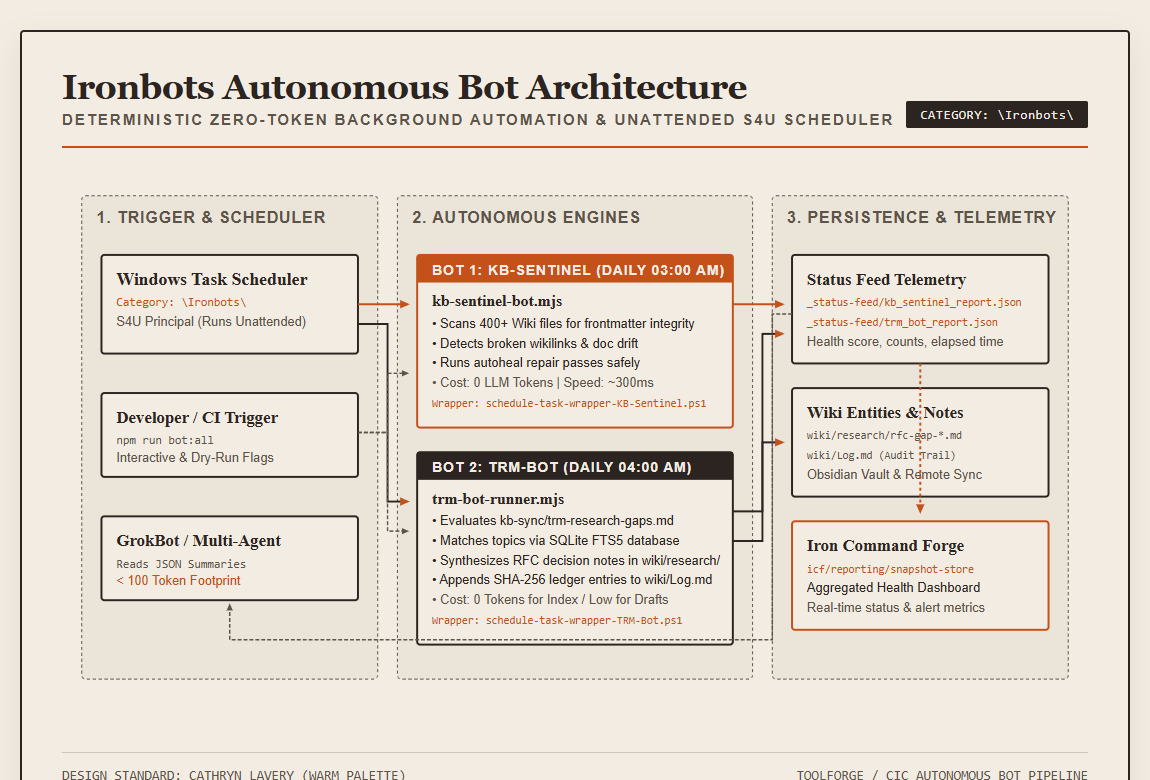
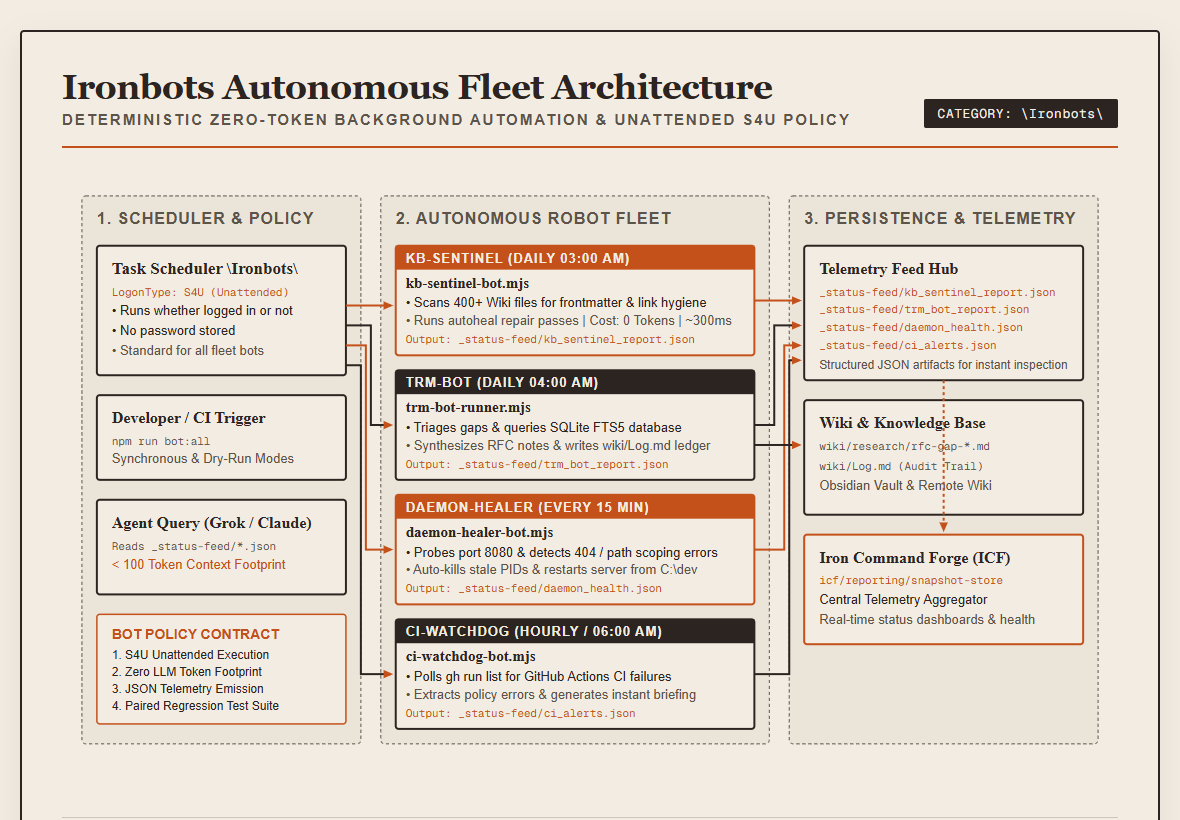
docs: update Ironbots architecture documentation and diagram with 4-bot fleet and policy

diff --git a/docs/ironbots-architecture-diagram.html b/docs/ironbots-architecture-diagram.html
@@ -3,7 +3,7 @@
 <head>
   <meta charset="UTF-8">
   <meta name="viewport" content="width=device-width, initial-scale=1.0">
-  <title>Ironbots Autonomous Bot Architecture</title>
+  <title>Ironbots Autonomous Bot Architecture & Policy</title>
   <link rel="preconnect" href="https://fonts.googleapis.com">
   <link rel="preconnect" href="https://fonts.gstatic.com" crossorigin>
   <link href="https://fonts.googleapis.com/css2?family=Playfair+Display:ital,wght@0,600;0,800;1,400&family=Barlow+Condensed:wght@400;600;700&family=Geist+Mono:wght@400;600&display=swap" rel="stylesheet">
@@ -28,7 +28,7 @@
       border: 2px solid #2c2420;
       border-radius: 4px;
       padding: 36px 40px;
-      max-width: 1120px;
+      max-width: 1140px;
       width: 100%;
       box-shadow: 0 12px 32px rgba(44, 36, 32, 0.08);
     }
@@ -87,13 +87,13 @@
 <div class="diagram-container">
   <header>
     <div class="title-group">
-      <h1>Ironbots Autonomous Bot Architecture</h1>
-      <p>Deterministic Zero-Token Background Automation &amp; Unattended S4U Scheduler</p>
+      <h1>Ironbots Autonomous Fleet Architecture</h1>
+      <p>Deterministic Zero-Token Background Automation &amp; Unattended S4U Policy</p>
     </div>
     <div class="badge">CATEGORY: \Ironbots\</div>
   </header>
 
-  <svg viewBox="0 0 1040 560" xmlns="http://www.w3.org/2000/svg">
+  <svg viewBox="0 0 1060 620" xmlns="http://www.w3.org/2000/svg">
     <defs>
       <marker id="arrow" viewBox="0 0 10 10" refX="6" refY="5" markerWidth="6" markerHeight="6" orient="auto-start-reverse">
         <path d="M 0 1.5 L 8 5 L 0 8.5 z" fill="#c4501a" />
@@ -104,104 +104,118 @@
     </defs>
 
     <!-- Background Grid Bands -->
-    <rect x="20" y="20" width="300" height="490" rx="4" fill="#ebe4d8" stroke="#5c5349" stroke-dasharray="3 3" />
-    <text x="35" y="48" font-family="'Barlow Condensed', sans-serif" font-weight="700" font-size="16" fill="#5c5349" letter-spacing="1">1. TRIGGER &amp; SCHEDULER</text>
+    <rect x="20" y="20" width="280" height="550" rx="4" fill="#ebe4d8" stroke="#5c5349" stroke-dasharray="3 3" />
+    <text x="35" y="48" font-family="'Barlow Condensed', sans-serif" font-weight="700" font-size="16" fill="#5c5349" letter-spacing="1">1. SCHEDULER &amp; POLICY</text>
 
-    <rect x="340" y="20" width="360" height="490" rx="4" fill="#ebe4d8" stroke="#5c5349" stroke-dasharray="3 3" />
-    <text x="355" y="48" font-family="'Barlow Condensed', sans-serif" font-weight="700" font-size="16" fill="#5c5349" letter-spacing="1">2. AUTONOMOUS ENGINES</text>
+    <rect x="320" y="20" width="390" height="550" rx="4" fill="#ebe4d8" stroke="#5c5349" stroke-dasharray="3 3" />
+    <text x="335" y="48" font-family="'Barlow Condensed', sans-serif" font-weight="700" font-size="16" fill="#5c5349" letter-spacing="1">2. AUTONOMOUS ROBOT FLEET</text>
 
-    <rect x="720" y="20" width="300" height="490" rx="4" fill="#ebe4d8" stroke="#5c5349" stroke-dasharray="3 3" />
-    <text x="735" y="48" font-family="'Barlow Condensed', sans-serif" font-weight="700" font-size="16" fill="#5c5349" letter-spacing="1">3. PERSISTENCE &amp; TELEMETRY</text>
+    <rect x="730" y="20" width="310" height="550" rx="4" fill="#ebe4d8" stroke="#5c5349" stroke-dasharray="3 3" />
+    <text x="745" y="48" font-family="'Barlow Condensed', sans-serif" font-weight="700" font-size="16" fill="#5c5349" letter-spacing="1">3. PERSISTENCE &amp; TELEMETRY</text>
 
     <!-- Node 1: Task Scheduler \Ironbots\ -->
-    <rect x="40" y="80" width="260" height="100" rx="3" fill="#f2ece2" stroke="#2c2420" stroke-width="2" />
-    <text x="55" y="110" font-family="'Playfair Display', serif" font-weight="700" font-size="18" fill="#2c2420">Windows Task Scheduler</text>
-    <text x="55" y="132" font-family="'Geist Mono', monospace" font-size="12" fill="#c4501a">Category: \Ironbots\</text>
-    <text x="55" y="152" font-family="'Barlow Condensed', sans-serif" font-size="13" fill="#5c5349">S4U Principal (Runs Unattended)</text>
+    <rect x="35" y="70" width="250" height="130" rx="3" fill="#f2ece2" stroke="#2c2420" stroke-width="2" />
+    <text x="50" y="98" font-family="'Playfair Display', serif" font-weight="700" font-size="17" fill="#2c2420">Task Scheduler \Ironbots\</text>
+    <text x="50" y="120" font-family="'Geist Mono', monospace" font-size="11" fill="#c4501a">LogonType: S4U (Unattended)</text>
+    <text x="50" y="140" font-family="'Barlow Condensed', sans-serif" font-size="13" fill="#2c2420">• Runs whether logged in or not</text>
+    <text x="50" y="160" font-family="'Barlow Condensed', sans-serif" font-size="13" fill="#2c2420">• No password stored</text>
+    <text x="50" y="180" font-family="'Barlow Condensed', sans-serif" font-size="13" fill="#5c5349">• Standard for all fleet bots</text>
 
     <!-- Node 2: CLI / On-Demand Trigger -->
-    <rect x="40" y="220" width="260" height="85" rx="3" fill="#f2ece2" stroke="#2c2420" stroke-width="2" />
-    <text x="55" y="250" font-family="'Playfair Display', serif" font-weight="700" font-size="17" fill="#2c2420">Developer / CI Trigger</text>
-    <text x="55" y="272" font-family="'Geist Mono', monospace" font-size="12" fill="#5c5349">npm run bot:all</text>
-    <text x="55" y="290" font-family="'Barlow Condensed', sans-serif" font-size="13" fill="#5c5349">Interactive &amp; Dry-Run Flags</text>
+    <rect x="35" y="220" width="250" height="85" rx="3" fill="#f2ece2" stroke="#2c2420" stroke-width="2" />
+    <text x="50" y="248" font-family="'Playfair Display', serif" font-weight="700" font-size="16" fill="#2c2420">Developer / CI Trigger</text>
+    <text x="50" y="270" font-family="'Geist Mono', monospace" font-size="11" fill="#5c5349">npm run bot:all</text>
+    <text x="50" y="288" font-family="'Barlow Condensed', sans-serif" font-size="13" fill="#5c5349">Synchronous &amp; Dry-Run Modes</text>
 
     <!-- Node 3: Low-Token Agent Query -->
-    <rect x="40" y="345" width="260" height="85" rx="3" fill="#f2ece2" stroke="#2c2420" stroke-width="2" />
-    <text x="55" y="375" font-family="'Playfair Display', serif" font-weight="700" font-size="17" fill="#2c2420">GrokBot / Multi-Agent</text>
-    <text x="55" y="397" font-family="'Geist Mono', monospace" font-size="12" fill="#5c5349">Reads JSON Summaries</text>
-    <text x="55" y="415" font-family="'Barlow Condensed', sans-serif" font-size="13" fill="#c4501a">&lt; 100 Token Footprint</text>
+    <rect x="35" y="325" width="250" height="95" rx="3" fill="#f2ece2" stroke="#2c2420" stroke-width="2" />
+    <text x="50" y="353" font-family="'Playfair Display', serif" font-weight="700" font-size="16" fill="#2c2420">Agent Query (Grok / Claude)</text>
+    <text x="50" y="375" font-family="'Geist Mono', monospace" font-size="11" fill="#5c5349">Reads _status-feed/*.json</text>
+    <text x="50" y="395" font-family="'Barlow Condensed', sans-serif" font-size="13" fill="#c4501a">&lt; 100 Token Context Footprint</text>
 
-    <!-- Node 4: KB Sentinel Bot -->
-    <rect x="360" y="80" width="320" height="175" rx="3" fill="#f2ece2" stroke="#c4501a" stroke-width="2" />
-    <rect x="360" y="80" width="320" height="28" fill="#c4501a" />
-    <text x="375" y="100" font-family="'Barlow Condensed', sans-serif" font-weight="700" font-size="14" fill="#f2ece2" letter-spacing="1">BOT 1: KB-SENTINEL (DAILY 03:00 AM)</text>
-    <text x="375" y="132" font-family="'Playfair Display', serif" font-weight="700" font-size="16" fill="#2c2420">kb-sentinel-bot.mjs</text>
-    <text x="375" y="154" font-family="'Barlow Condensed', sans-serif" font-size="13" fill="#2c2420">• Scans 400+ Wiki files for frontmatter integrity</text>
-    <text x="375" y="174" font-family="'Barlow Condensed', sans-serif" font-size="13" fill="#2c2420">• Detects broken wikilinks &amp; doc drift</text>
-    <text x="375" y="194" font-family="'Barlow Condensed', sans-serif" font-size="13" fill="#2c2420">• Runs autoheal repair passes safely</text>
-    <text x="375" y="214" font-family="'Barlow Condensed', sans-serif" font-size="13" fill="#5c5349">• Cost: 0 LLM Tokens | Speed: ~300ms</text>
-    <text x="375" y="234" font-family="'Geist Mono', monospace" font-size="11" fill="#c4501a">Wrapper: schedule-task-wrapper-KB-Sentinel.ps1</text>
+    <!-- Node 4: Policy Contract Box -->
+    <rect x="35" y="440" width="250" height="110" rx="3" fill="#f2ece2" stroke="#c4501a" stroke-width="1.5" />
+    <text x="50" y="465" font-family="'Barlow Condensed', sans-serif" font-weight="700" font-size="14" fill="#c4501a">BOT POLICY CONTRACT</text>
+    <text x="50" y="485" font-family="'Barlow Condensed', sans-serif" font-size="12" fill="#2c2420">1. S4U Unattended Execution</text>
+    <text x="50" y="502" font-family="'Barlow Condensed', sans-serif" font-size="12" fill="#2c2420">2. Zero LLM Token Footprint</text>
+    <text x="50" y="519" font-family="'Barlow Condensed', sans-serif" font-size="12" fill="#2c2420">3. JSON Telemetry Emission</text>
+    <text x="50" y="536" font-family="'Barlow Condensed', sans-serif" font-size="12" fill="#2c2420">4. Paired Regression Test Suite</text>
 
-    <!-- Node 5: TRM Bot -->
-    <rect x="360" y="280" width="320" height="195" rx="3" fill="#f2ece2" stroke="#2c2420" stroke-width="2" />
-    <rect x="360" y="280" width="320" height="28" fill="#2c2420" />
-    <text x="375" y="300" font-family="'Barlow Condensed', sans-serif" font-weight="700" font-size="14" fill="#f2ece2" letter-spacing="1">BOT 2: TRM-BOT (DAILY 04:00 AM)</text>
-    <text x="375" y="332" font-family="'Playfair Display', serif" font-weight="700" font-size="16" fill="#2c2420">trm-bot-runner.mjs</text>
-    <text x="375" y="354" font-family="'Barlow Condensed', sans-serif" font-size="13" fill="#2c2420">• Evaluates kb-sync/trm-research-gaps.md</text>
-    <text x="375" y="374" font-family="'Barlow Condensed', sans-serif" font-size="13" fill="#2c2420">• Matches topics via SQLite FTS5 database</text>
-    <text x="375" y="394" font-family="'Barlow Condensed', sans-serif" font-size="13" fill="#2c2420">• Synthesizes RFC decision notes in wiki/research/</text>
-    <text x="375" y="414" font-family="'Barlow Condensed', sans-serif" font-size="13" fill="#2c2420">• Appends SHA-256 ledger entries to wiki/Log.md</text>
-    <text x="375" y="434" font-family="'Barlow Condensed', sans-serif" font-size="13" fill="#5c5349">• Cost: 0 Tokens for Index / Low for Drafts</text>
-    <text x="375" y="454" font-family="'Geist Mono', monospace" font-size="11" fill="#c4501a">Wrapper: schedule-task-wrapper-TRM-Bot.ps1</text>
+    <!-- Bot 1: KB-Sentinel -->
+    <rect x="335" y="70" width="360" height="110" rx="3" fill="#f2ece2" stroke="#c4501a" stroke-width="2" />
+    <rect x="335" y="70" width="360" height="24" fill="#c4501a" />
+    <text x="345" y="87" font-family="'Barlow Condensed', sans-serif" font-weight="700" font-size="13" fill="#f2ece2" letter-spacing="1">KB-SENTINEL (DAILY 03:00 AM)</text>
+    <text x="345" y="112" font-family="'Playfair Display', serif" font-weight="700" font-size="15" fill="#2c2420">kb-sentinel-bot.mjs</text>
+    <text x="345" y="132" font-family="'Barlow Condensed', sans-serif" font-size="13" fill="#2c2420">• Scans 400+ Wiki files for frontmatter &amp; link hygiene</text>
+    <text x="345" y="150" font-family="'Barlow Condensed', sans-serif" font-size="13" fill="#5c5349">• Runs autoheal repair passes | Cost: 0 Tokens | ~300ms</text>
+    <text x="345" y="168" font-family="'Geist Mono', monospace" font-size="11" fill="#c4501a">Output: _status-feed/kb_sentinel_report.json</text>
 
-    <!-- Node 6: Telemetry Feeds -->
-    <rect x="740" y="80" width="260" height="110" rx="3" fill="#f2ece2" stroke="#2c2420" stroke-width="2" />
-    <text x="755" y="110" font-family="'Playfair Display', serif" font-weight="700" font-size="17" fill="#2c2420">Status Feed Telemetry</text>
-    <text x="755" y="132" font-family="'Geist Mono', monospace" font-size="11" fill="#c4501a">_status-feed/kb_sentinel_report.json</text>
-    <text x="755" y="152" font-family="'Geist Mono', monospace" font-size="11" fill="#c4501a">_status-feed/trm_bot_report.json</text>
-    <text x="755" y="172" font-family="'Barlow Condensed', sans-serif" font-size="13" fill="#5c5349">Health score, counts, elapsed time</text>
+    <!-- Bot 2: TRM-Bot -->
+    <rect x="335" y="195" width="360" height="110" rx="3" fill="#f2ece2" stroke="#2c2420" stroke-width="2" />
+    <rect x="335" y="195" width="360" height="24" fill="#2c2420" />
+    <text x="345" y="212" font-family="'Barlow Condensed', sans-serif" font-weight="700" font-size="13" fill="#f2ece2" letter-spacing="1">TRM-BOT (DAILY 04:00 AM)</text>
+    <text x="345" y="237" font-family="'Playfair Display', serif" font-weight="700" font-size="15" fill="#2c2420">trm-bot-runner.mjs</text>
+    <text x="345" y="257" font-family="'Barlow Condensed', sans-serif" font-size="13" fill="#2c2420">• Triages gaps &amp; queries SQLite FTS5 database</text>
+    <text x="345" y="275" font-family="'Barlow Condensed', sans-serif" font-size="13" fill="#5c5349">• Synthesizes RFC notes &amp; writes wiki/Log.md ledger</text>
+    <text x="345" y="293" font-family="'Geist Mono', monospace" font-size="11" fill="#c4501a">Output: _status-feed/trm_bot_report.json</text>
 
-    <!-- Node 7: Knowledge Base & RFC Artifacts -->
-    <rect x="740" y="215" width="260" height="110" rx="3" fill="#f2ece2" stroke="#2c2420" stroke-width="2" />
-    <text x="755" y="245" font-family="'Playfair Display', serif" font-weight="700" font-size="17" fill="#2c2420">Wiki Entities &amp; Notes</text>
-    <text x="755" y="267" font-family="'Geist Mono', monospace" font-size="11" fill="#5c5349">wiki/research/rfc-gap-*.md</text>
-    <text x="755" y="287" font-family="'Geist Mono', monospace" font-size="11" fill="#5c5349">wiki/Log.md (Audit Trail)</text>
-    <text x="755" y="307" font-family="'Barlow Condensed', sans-serif" font-size="13" fill="#5c5349">Obsidian Vault &amp; Remote Sync</text>
+    <!-- Bot 3: Daemon-Healer -->
+    <rect x="335" y="320" width="360" height="110" rx="3" fill="#f2ece2" stroke="#c4501a" stroke-width="2" />
+    <rect x="335" y="320" width="360" height="24" fill="#c4501a" />
+    <text x="345" y="337" font-family="'Barlow Condensed', sans-serif" font-weight="700" font-size="13" fill="#f2ece2" letter-spacing="1">DAEMON-HEALER (EVERY 15 MIN)</text>
+    <text x="345" y="362" font-family="'Playfair Display', serif" font-weight="700" font-size="15" fill="#2c2420">daemon-healer-bot.mjs</text>
+    <text x="345" y="382" font-family="'Barlow Condensed', sans-serif" font-size="13" fill="#2c2420">• Probes port 8080 &amp; detects 404 / path scoping errors</text>
+    <text x="345" y="400" font-family="'Barlow Condensed', sans-serif" font-size="13" fill="#5c5349">• Auto-kills stale PIDs &amp; restarts server from C:\dev</text>
+    <text x="345" y="418" font-family="'Geist Mono', monospace" font-size="11" fill="#c4501a">Output: _status-feed/daemon_health.json</text>
 
-    <!-- Node 8: Iron Command Forge Integration -->
-    <rect x="740" y="350" width="260" height="110" rx="3" fill="#f2ece2" stroke="#c4501a" stroke-width="2" />
-    <text x="755" y="380" font-family="'Playfair Display', serif" font-weight="700" font-size="17" fill="#2c2420">Iron Command Forge</text>
-    <text x="755" y="402" font-family="'Geist Mono', monospace" font-size="11" fill="#c4501a">icf/reporting/snapshot-store</text>
-    <text x="755" y="422" font-family="'Barlow Condensed', sans-serif" font-size="13" fill="#2c2420">Aggregated Health Dashboard</text>
-    <text x="755" y="442" font-family="'Barlow Condensed', sans-serif" font-size="13" fill="#5c5349">Real-time status &amp; alert metrics</text>
+    <!-- Bot 4: CI-Watchdog -->
+    <rect x="335" y="445" width="360" height="110" rx="3" fill="#f2ece2" stroke="#2c2420" stroke-width="2" />
+    <rect x="335" y="445" width="360" height="24" fill="#2c2420" />
+    <text x="345" y="462" font-family="'Barlow Condensed', sans-serif" font-weight="700" font-size="13" fill="#f2ece2" letter-spacing="1">CI-WATCHDOG (HOURLY / 06:00 AM)</text>
+    <text x="345" y="487" font-family="'Playfair Display', serif" font-weight="700" font-size="15" fill="#2c2420">ci-watchdog-bot.mjs</text>
+    <text x="345" y="507" font-family="'Barlow Condensed', sans-serif" font-size="13" fill="#2c2420">• Polls gh run list for GitHub Actions CI failures</text>
+    <text x="345" y="525" font-family="'Barlow Condensed', sans-serif" font-size="13" fill="#5c5349">• Extracts policy errors &amp; generates instant briefing</text>
+    <text x="345" y="543" font-family="'Geist Mono', monospace" font-size="11" fill="#c4501a">Output: _status-feed/ci_alerts.json</text>
+
+    <!-- Right Side Outputs -->
+    <rect x="745" y="70" width="280" height="135" rx="3" fill="#f2ece2" stroke="#2c2420" stroke-width="2" />
+    <text x="760" y="98" font-family="'Playfair Display', serif" font-weight="700" font-size="16" fill="#2c2420">Telemetry Feed Hub</text>
+    <text x="760" y="120" font-family="'Geist Mono', monospace" font-size="11" fill="#c4501a">_status-feed/kb_sentinel_report.json</text>
+    <text x="760" y="138" font-family="'Geist Mono', monospace" font-size="11" fill="#c4501a">_status-feed/trm_bot_report.json</text>
+    <text x="760" y="156" font-family="'Geist Mono', monospace" font-size="11" fill="#c4501a">_status-feed/daemon_health.json</text>
+    <text x="760" y="174" font-family="'Geist Mono', monospace" font-size="11" fill="#c4501a">_status-feed/ci_alerts.json</text>
+    <text x="760" y="194" font-family="'Barlow Condensed', sans-serif" font-size="12" fill="#5c5349">Structured JSON artifacts for instant inspection</text>
+
+    <rect x="745" y="225" width="280" height="115" rx="3" fill="#f2ece2" stroke="#2c2420" stroke-width="2" />
+    <text x="760" y="253" font-family="'Playfair Display', serif" font-weight="700" font-size="16" fill="#2c2420">Wiki &amp; Knowledge Base</text>
+    <text x="760" y="275" font-family="'Geist Mono', monospace" font-size="11" fill="#5c5349">wiki/research/rfc-gap-*.md</text>
+    <text x="760" y="295" font-family="'Geist Mono', monospace" font-size="11" fill="#5c5349">wiki/Log.md (Audit Trail)</text>
+    <text x="760" y="315" font-family="'Barlow Condensed', sans-serif" font-size="13" fill="#5c5349">Obsidian Vault &amp; Remote Wiki</text>
+
+    <rect x="745" y="360" width="280" height="110" rx="3" fill="#f2ece2" stroke="#c4501a" stroke-width="2" />
+    <text x="760" y="388" font-family="'Playfair Display', serif" font-weight="700" font-size="16" fill="#2c2420">Iron Command Forge (ICF)</text>
+    <text x="760" y="410" font-family="'Geist Mono', monospace" font-size="11" fill="#c4501a">icf/reporting/snapshot-store</text>
+    <text x="760" y="430" font-family="'Barlow Condensed', sans-serif" font-size="13" fill="#2c2420">Central Telemetry Aggregator</text>
+    <text x="760" y="450" font-family="'Barlow Condensed', sans-serif" font-size="13" fill="#5c5349">Real-time status dashboards &amp; health</text>
 
     <!-- Connectors -->
-    <!-- Task Scheduler to KB Sentinel -->
-    <path d="M 300 130 L 350 130" fill="none" stroke="#c4501a" stroke-width="2" marker-end="url(#arrow)" />
-    <!-- Task Scheduler to TRM Bot -->
-    <path d="M 300 150 L 330 150 L 330 330 L 350 330" fill="none" stroke="#2c2420" stroke-width="2" marker-end="url(#arrow)" />
-    <!-- CLI to Both Bots -->
-    <path d="M 300 260 L 330 260 L 330 200 L 350 200" fill="none" stroke="#5c5349" stroke-width="1.5" stroke-dasharray="4 2" marker-end="url(#arrow-muted)" />
-    <path d="M 300 260 L 330 260 L 330 360 L 350 360" fill="none" stroke="#5c5349" stroke-width="1.5" stroke-dasharray="4 2" marker-end="url(#arrow-muted)" />
+    <path d="M 285 130 L 330 130" fill="none" stroke="#c4501a" stroke-width="2" marker-end="url(#arrow)" />
+    <path d="M 285 150 L 310 150 L 310 250 L 330 250" fill="none" stroke="#2c2420" stroke-width="2" marker-end="url(#arrow)" />
+    <path d="M 285 170 L 305 170 L 305 375 L 330 375" fill="none" stroke="#c4501a" stroke-width="2" marker-end="url(#arrow)" />
+    <path d="M 285 190 L 300 190 L 300 500 L 330 500" fill="none" stroke="#2c2420" stroke-width="2" marker-end="url(#arrow)" />
 
-    <!-- KB Sentinel to Telemetry -->
-    <path d="M 680 130 L 730 130" fill="none" stroke="#c4501a" stroke-width="2" marker-end="url(#arrow)" />
-    <!-- TRM Bot to Telemetry -->
-    <path d="M 680 340 L 710 340 L 710 160 L 730 160" fill="none" stroke="#2c2420" stroke-width="2" marker-end="url(#arrow)" />
+    <path d="M 695 125 L 740 125" fill="none" stroke="#c4501a" stroke-width="2" marker-end="url(#arrow)" />
+    <path d="M 695 250 L 715 250 L 715 150 L 740 150" fill="none" stroke="#2c2420" stroke-width="2" marker-end="url(#arrow)" />
+    <path d="M 695 375 L 725 375 L 725 170 L 740 170" fill="none" stroke="#c4501a" stroke-width="2" marker-end="url(#arrow)" />
+    <path d="M 695 500 L 730 500 L 730 185 L 740 185" fill="none" stroke="#2c2420" stroke-width="2" marker-end="url(#arrow)" />
 
-    <!-- TRM Bot to Wiki Artifacts -->
-    <path d="M 680 370 L 710 370 L 710 270 L 730 270" fill="none" stroke="#2c2420" stroke-width="2" marker-end="url(#arrow)" />
-
-    <!-- Telemetry to ICF -->
-    <path d="M 870 190 L 870 340" fill="none" stroke="#c4501a" stroke-width="2" stroke-dasharray="3 3" marker-end="url(#arrow)" />
-
-    <!-- Telemetry to Agent Query -->
-    <path d="M 740 140 L 720 140 L 720 470 L 170 470 L 170 435" fill="none" stroke="#5c5349" stroke-width="1.5" stroke-dasharray="4 2" marker-end="url(#arrow-muted)" />
+    <path d="M 695 270 L 740 270" fill="none" stroke="#2c2420" stroke-width="2" marker-end="url(#arrow)" />
+    <path d="M 885 205 L 885 355" fill="none" stroke="#c4501a" stroke-width="2" stroke-dasharray="3 3" marker-end="url(#arrow)" />
   </svg>
 
   <footer>
-    <span>DESIGN STANDARD: CATHRYN LAVERY (WARM PALETTE)</span>
-    <span>TOOLFORGE / CIC AUTONOMOUS BOT PIPELINE</span>
+    <span>POLICY STANDARD: UNATTENDED S4U &bull; ZERO TOKEN &bull; CATHRYN LAVERY DIAGRAM DESIGN</span>
+    <span>TOOLFORGE / CIC AUTONOMOUS BOT FLEET</span>
   </footer>
 </div>
 

diff --git a/docs/ironbots-autonomous-agent-pipeline.md b/docs/ironbots-autonomous-agent-pipeline.md
@@ -1,4 +1,4 @@
-# Ironbots autonomous agent pipeline
+# Ironbots autonomous agent pipeline & policy
 
 Ironbots is the background automated robot subsystem operating within Toolforge and supervised by the Iron Command Forge (ICF) telemetry aggregator.
 
@@ -13,31 +13,43 @@ flowchart TD
         A["Windows Task Scheduler (\Ironbots\)"]
         B["Manual / CI Invocation (npm run bot:all)"]
         C["Agent Status Probing (<100 tokens)"]
+        P["Fleet Engineering Policy Contract"]
     end
 
-    subgraph Engines["2. Autonomous Bot Engines"]
-        D["KB-Sentinel Bot (Daily 03:00 AM)\nscripts/kb-sentinel-bot.mjs\n0 Tokens | ~300ms"]
-        E["TRM-Bot (Daily 04:00 AM)\nscripts/trm-bot-runner.mjs\n0 Tokens Index / Low Drafts"]
+    subgraph Engines["2. Autonomous Bot Fleet"]
+        D["KB-Sentinel Bot (Daily 03:00 AM)\nscripts/kb-sentinel-bot.mjs"]
+        E["TRM-Bot (Daily 04:00 AM)\nscripts/trm-bot-runner.mjs"]
+        K["Daemon-Healer Bot (Every 15 Min)\nscripts/daemon-healer-bot.mjs"]
+        L["CI-Watchdog Bot (Hourly / 06:00 AM)\nscripts/ci-watchdog-bot.mjs"]
     end
 
     subgraph Targets["3. Knowledge Base & Telemetry"]
         F["Wiki Frontmatter & Link Autoheal"]
         G["RFC Decision Notes (wiki/research/rfc-gap-*.md)"]
-        H["SHA-256 Audit Trail (wiki/Log.md)"]
-        I["Telemetry (_status-feed/*.json)"]
+        M["Port 8080 Process Recovery & Uptime"]
+        N["CI Failure Detection & Error Logs"]
+        I["Telemetry Hub (_status-feed/*.json)"]
         J["Iron Command Forge (ICF Snapshot Store)"]
     end
 
     A -->|Daily 03:00 AM| D
     A -->|Daily 04:00 AM| E
-    B -->|npm run bot:kb:sentinel| D
-    B -->|npm run bot:trm:triage| E
+    A -->|Every 15 Min| K
+    A -->|Hourly 06:00 AM| L
+
+    B --> D
+    B --> E
+    B --> K
+    B --> L
 
     D --> F
     D --> I
     E --> G
-    E --> H
     E --> I
+    K --> M
+    K --> I
+    L --> N
+    L --> I
     I --> J
     I -.-> C
 ```
@@ -46,48 +58,55 @@ flowchart TD
 
 ---
 
-## Architectural integration with ICF
+## Ironbots fleet engineering policy
 
-Ironbots operates as a decoupled, zero-token daemon pipeline that emits structured health and progress telemetry ingested by Iron Command Forge:
+All background automation bots added to the `\Ironbots\` fleet must adhere to these four core rules:
 
-1. **Telemetry feeds**:
-   - `_status-feed/kb_sentinel_report.json`: Knowledge base health score (0–100), broken link counts, frontmatter validation counts, and scan duration.
-   - `_status-feed/trm_bot_report.json`: Research gap triage counts, drafted RFC notes, and SQLite topic indexing metrics.
-2. **Snapshot store synchronization**:
-   - ICF's SQLite snapshot store periodically records health state transitions emitted by Ironbots to track long-term repository documentation stability and topic coverage.
-3. **Supervisor integration**:
-   - Task Scheduler handles fault isolation and timeout management under the `\Ironbots\` category.
-   - ICF dashboards read telemetry directly from the filesystem without spawning long-running browser or LLM sessions.
+1. **Unattended execution (S4U)**:
+   - Must provide a dedicated PowerShell scheduled task wrapper under `\Ironbots\`.
+   - Must support Service-for-User (`-LogonType S4U`) so tasks run continuously when the user is logged out.
+2. **Zero token footprint**:
+   - Heavy parsing, regex linting, link checking, process recovery, and CI log scraping must execute deterministically on the host CPU with 0 LLM tokens.
+3. **Structured JSON telemetry**:
+   - Must emit telemetry to `_status-feed/` for consumption by ICF and conversational agents.
+4. **Paired regression testing**:
+   - Must be verified in `tests/ironbots.test.mjs` to satisfy the repository's Delivery Guard CI governance policy.
 
 ---
 
-## Bot roster and schedules
+## Active bot roster & schedules
 
-| Bot Name | Script Entrypoint | Schedule | Task Category | Primary Artifacts |
+| Bot Name | Script Entrypoint | Schedule | Task Category | Primary Telemetry Artifact |
 |---|---|---|---|---|
 | **KB-Sentinel** | `scripts/kb-sentinel-bot.mjs` | Daily 03:00 AM | `\Ironbots\` | `_status-feed/kb_sentinel_report.json` |
-| **TRM-Bot** | `scripts/trm-bot-runner.mjs` | Daily 04:00 AM | `\Ironbots\` | `wiki/research/rfc-gap-*.md`, `_status-feed/trm_bot_report.json` |
+| **TRM-Bot** | `scripts/trm-bot-runner.mjs` | Daily 04:00 AM | `\Ironbots\` | `_status-feed/trm_bot_report.json` |
+| **Daemon-Healer** | `scripts/daemon-healer-bot.mjs` | Every 15 Minutes | `\Ironbots\` | `_status-feed/daemon_health.json` |
+| **CI-Watchdog** | `scripts/ci-watchdog-bot.mjs` | Daily 06:00 AM | `\Ironbots\` | `_status-feed/ci_alerts.json` |
 
 ---
 
-## Operational runbook
+## Operational commands
 
-### Manual execution
-To invoke both bots synchronously from the root repository:
+### Synchronous execution
 ```bash
+# Run entire fleet
 npm run bot:all
+
+# Run individual bots
+npm run bot:kb:sentinel
+npm run bot:trm:triage
+npm run bot:daemon:heal
+npm run bot:ci:watchdog
 ```
 
-### Scheduled task supervision
-To inspect the status of the Ironbots tasks in Task Scheduler:
+### Windows Task Scheduler administration
 ```powershell
-pwsh -NoProfile -File scripts/schedule-task-wrapper-KB-Sentinel.ps1 -Action Status
-pwsh -NoProfile -File scripts/schedule-task-wrapper-TRM-Bot.ps1 -Action Status
-```
+# View all registered Ironbots tasks
+Get-ScheduledTask -TaskPath "\Ironbots\"
 
-To register or update unattended execution (S4U):
-```powershell
-# Run in Administrator PowerShell
+# Upgrade all tasks to Unattended S4U Mode (Run in Administrator PowerShell)
 pwsh -NoProfile -File scripts/schedule-task-wrapper-KB-Sentinel.ps1 -Action Register -Unattended -Force
 pwsh -NoProfile -File scripts/schedule-task-wrapper-TRM-Bot.ps1 -Action Register -Unattended -Force
+pwsh -NoProfile -File scripts/schedule-task-wrapper-Daemon-Healer.ps1 -Action Register -Unattended -Force
+pwsh -NoProfile -File scripts/schedule-task-wrapper-CI-Watchdog.ps1 -Action Register -Unattended -Force
 ```
